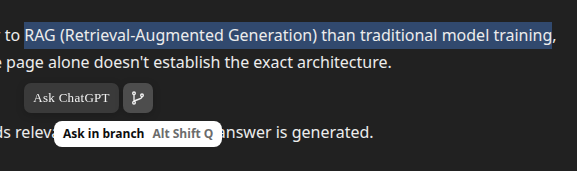
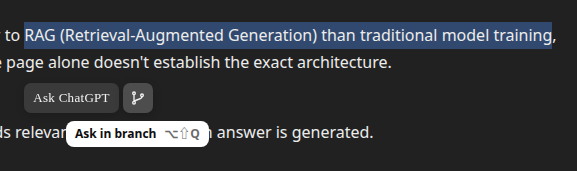
Run report: label shots and after.gif re-taken with key symbols; Bookmark label shot (#126)

Changed region(s): [[0.0936, 0.7018, 0.4055, 0.8772]]

diff --git a/notes/runs/2026-11-23-branch-shortcut/README.md b/notes/runs/2026-11-23-branch-shortcut/README.md
@@ -172,15 +172,25 @@ quote; label "Ask in branch  Alt Shift Q". 800 × 500, 12 fps, 5.7 s / 6.3 s, 11
 
 | File | Mockup panel (#126) |
 |---|---|
-| `shortcut-label-1280-light.png` | `after-light`: the label "Ask in branch" + "Alt Shift Q" |
+| `shortcut-label-1280-light.png` | `after-light`: the label "Ask in branch" + "⌥⇧Q" |
 | `shortcut-label-1280-dark.png` | `after-dark` |
 | `shortcut-label-1280-nokey.png` | the no-key half of `after-mac`: "Ask in branch" alone (the ⌥⇧Q half can't render on Linux) |
+| `bookmark-label-1400-light.png` | `after-light`'s Bookmark cell: "Bookmark selection" + "⌥⇧M" (bookmark fixture, 1400 px viewport) |
 
 From run 1 (`SHOTS=/tmp/b126/run1`).
 
 After review (round 0), the three label shots were re-taken with `evidenceShot` (cropped to the
 selection, the pill and the label, 24 px margin, each with its `.json` sidecar) in a headed
 `ONLY=shortcut` run at 8/8.
+
+Key symbols (the user's follow-up to the approved mockup, `mockups/key-hint-symbols.html`): the
+cells' key hints now show key symbols run together (`⌥⇧Q`, `⌥⇧M`) on Windows and Linux too, as
+Chrome already reports them on a Mac; `aria-keyshortcuts` is unchanged. The three label shots were
+re-taken (`ONLY=shortcut` headed, 8/8), `bookmark-label-1400-light.png` was added (an evidence shot
+in the bookmark harness's `save` scenario, 31/31 in both markups), and `after.gif` was re-recorded
+(800 × 500, 12 fps, 6.3 s, 166 KB; its label reads "Ask in branch  ⌥⇧Q"). `before.gif` is
+unchanged. The `Alt Shift Q`/`Alt Shift M` hints quoted elsewhere in this report are from the runs
+before this change.
 
 Privacy: every image is the synthetic fixture page; no account, chat title, URL or real chat text.
 The live run saved no images and printed lengths and counts only.
